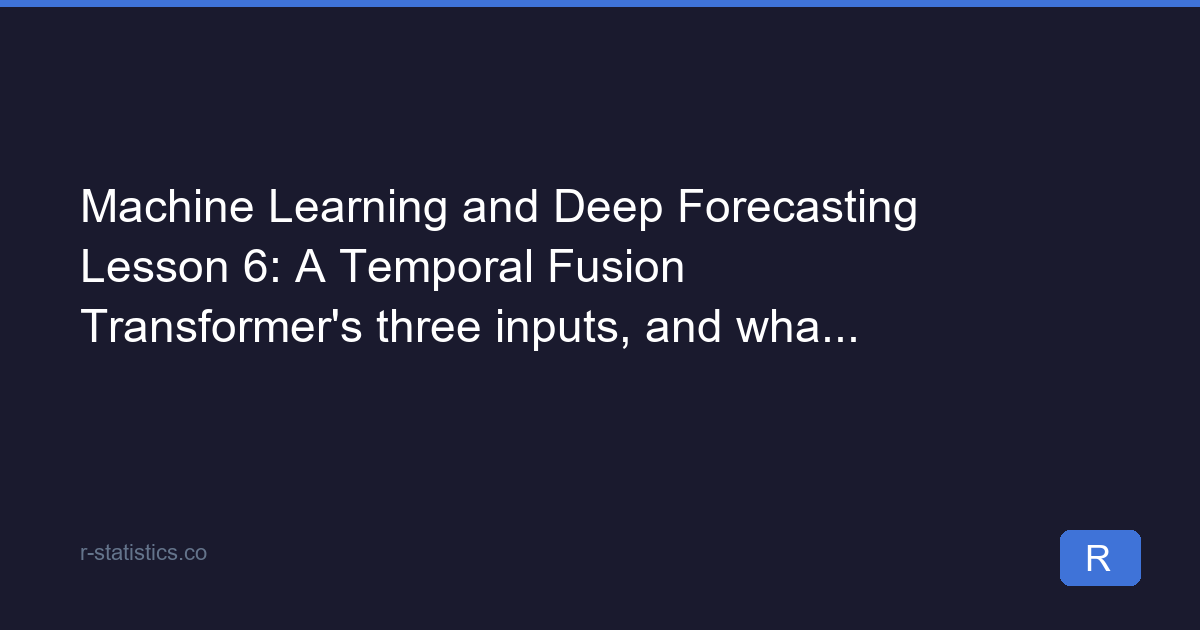
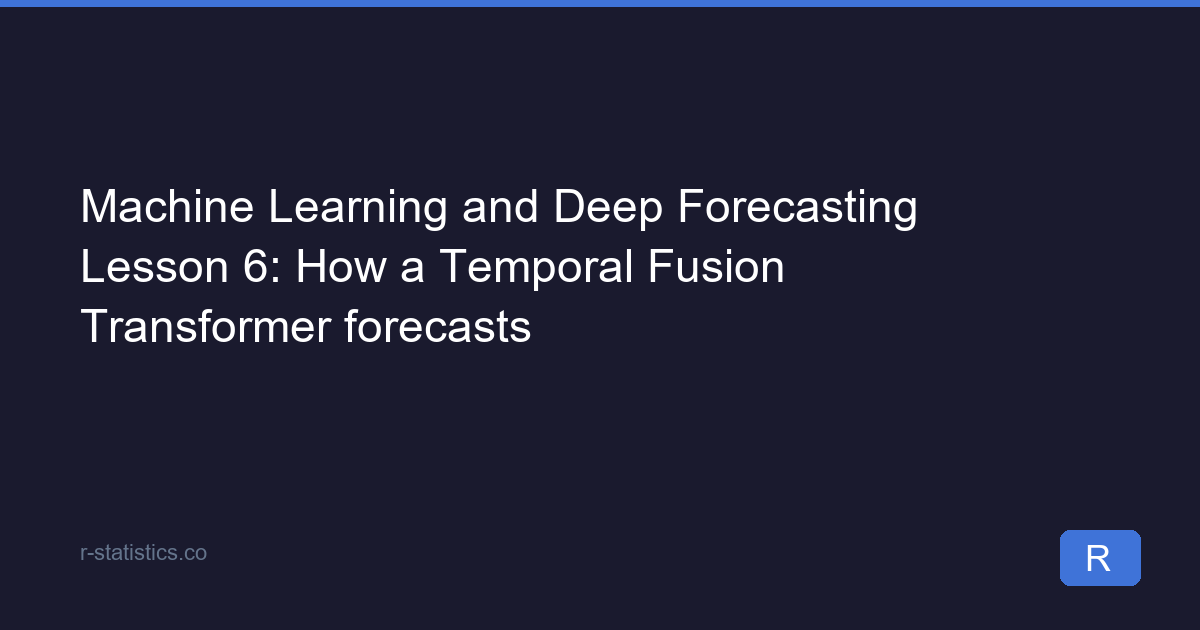
Temporal Fusion Transformers lesson: retitle to 'How a Temporal Fusion Transformer forecasts'

Changed region(s): [[0.2467, 0.3921, 0.6783, 0.4524], [0.2775, 0.4825, 0.7092, 0.5429]]

diff --git a/Temporal-Fusion-Transformers.html b/Temporal-Fusion-Transformers.html
@@ -1,7 +1,7 @@
 <!DOCTYPE html>
 <html lang="en">
   <head>
-    <title>Machine Learning and Deep Forecasting Lesson 6: A Temporal Fusion Transformer's three inputs, and what it pays attention to</title>
+    <title>Machine Learning and Deep Forecasting Lesson 6: How a Temporal Fusion Transformer forecasts</title>
     <meta charset="utf-8">
     <meta name="Description" content="See the three inputs a Temporal Fusion Transformer separates, compute a softmax attention weight by hand on real liquor sales, and judge if it earns its cost.">
     <meta name="Keywords" content="Temporal Fusion Transformer, TFT forecasting, attention mechanism forecasting, static covariate, known future input, observed past input, softmax attention weights, multi-horizon forecasting, R time series">
@@ -662,14 +662,14 @@
       @media(max-width:600px){body.layout-v2 #dark-mode-toggle{display:none}}
     </style>
     <!-- Open Graph -->
-    <meta property="og:title" content="Machine Learning and Deep Forecasting Lesson 6: A Temporal Fusion Transformer's three inputs, and what it pays attention to">
+    <meta property="og:title" content="Machine Learning and Deep Forecasting Lesson 6: How a Temporal Fusion Transformer forecasts">
     <meta property="og:description" content="See the three inputs a Temporal Fusion Transformer separates, compute a softmax attention weight by hand on real liquor sales, and judge if it earns its cost.">
     <meta property="og:type" content="article">
     <meta property="og:url" content="https://r-statistics.co/Temporal-Fusion-Transformers.html">
     <meta property="og:site_name" content="r-statistics.co">
     <meta property="og:image" content="https://r-statistics.co/screenshots/og/Temporal-Fusion-Transformers.png">
     <meta name="twitter:card" content="summary_large_image">
-    <meta name="twitter:title" content="Machine Learning and Deep Forecasting Lesson 6: A Temporal Fusion Transformer's three inputs, and what it pays attention to">
+    <meta name="twitter:title" content="Machine Learning and Deep Forecasting Lesson 6: How a Temporal Fusion Transformer forecasts">
     <meta name="twitter:description" content="See the three inputs a Temporal Fusion Transformer separates, compute a softmax attention weight by hand on real liquor sales, and judge if it earns its cost.">
     <meta name="twitter:image" content="https://r-statistics.co/screenshots/og/Temporal-Fusion-Transformers.png">
     <!-- JSON-LD Structured Data -->
@@ -677,7 +677,7 @@
     {
       "@context": "https://schema.org",
       "@type": ["TechArticle", "LearningResource"],
-      "headline": "Machine Learning and Deep Forecasting Lesson 6: A Temporal Fusion Transformer's three inputs, and what it pays attention to",
+      "headline": "Machine Learning and Deep Forecasting Lesson 6: How a Temporal Fusion Transformer forecasts",
       "description": "See the three inputs a Temporal Fusion Transformer separates, compute a softmax attention weight by hand on real liquor sales, and judge if it earns its cost.",
       "author": {"@type": "Person", "name": "Selva Prabhakaran", "url": "https://r-statistics.co/about/", "jobTitle": "Data Scientist"},
       "publisher": {"@type": "Organization", "name": "r-statistics.co", "url": "https://r-statistics.co/", "logo": {"@type": "ImageObject", "url": "https://r-statistics.co/screenshots/og-default.png"}},
@@ -696,7 +696,7 @@
       "@type": "BreadcrumbList",
       "itemListElement": [
         {"@type": "ListItem", "position": 1, "name": "Home", "item": "https://r-statistics.co/"},
-        {"@type": "ListItem", "position": 2, "name": "Machine Learning and Deep Forecasting Lesson 6: A Temporal Fusion Transformer's three inputs, and what it pays attention to", "item": "https://r-statistics.co/Temporal-Fusion-Transformers.html"}
+        {"@type": "ListItem", "position": 2, "name": "Machine Learning and Deep Forecasting Lesson 6: How a Temporal Fusion Transformer forecasts", "item": "https://r-statistics.co/Temporal-Fusion-Transformers.html"}
       ]
     }
     </script>
@@ -780,11 +780,11 @@
 
           
 
-          <nav class="breadcrumb-nav" aria-label="Breadcrumb"><a href="/">Home</a> <span class="breadcrumb-sep">&rsaquo;</span> <span class="breadcrumb-current">Machine Learning and Deep Forecasting Lesson 6: A Temporal Fusion Transformer's three inputs, and what it pays attention to</span></nav>
+          <nav class="breadcrumb-nav" aria-label="Breadcrumb"><a href="/">Home</a> <span class="breadcrumb-sep">&rsaquo;</span> <span class="breadcrumb-current">Machine Learning and Deep Forecasting Lesson 6: How a Temporal Fusion Transformer forecasts</span></nav>
 <!-- md2lesson:generated -->
 
 <section class="lesson-step" data-step="1" data-step-type="cover">
-<h2>A Temporal Fusion Transformer's three inputs, and what it pays attention to</h2>
+<h2>How a Temporal Fusion Transformer forecasts</h2>
 
 <p>Today let's see what a Temporal Fusion Transformer actually looks at before it makes a forecast, and why it can end up paying more attention to a month from a year ago than to last month.</p>
 

diff --git a/_lessons/Temporal-Fusion-Transformers.html b/_lessons/Temporal-Fusion-Transformers.html
@@ -1,5 +1,5 @@
 ---
-title: "Machine Learning and Deep Forecasting Lesson 6: A Temporal Fusion Transformer's three inputs, and what it pays attention to"
+title: "Machine Learning and Deep Forecasting Lesson 6: How a Temporal Fusion Transformer forecasts"
 description: "See the three inputs a Temporal Fusion Transformer separates, compute a softmax attention weight by hand on real liquor sales, and judge if it earns its cost."
 keywords: "Temporal Fusion Transformer, TFT forecasting, attention mechanism forecasting, static covariate, known future input, observed past input, softmax attention weights, multi-horizon forecasting, R time series"
 mathjax: true
@@ -20,7 +20,7 @@ catalog_blurb: "What a Temporal Fusion Transformer actually attends to, and whet
 <!-- md2lesson:generated -->
 
 <section class="lesson-step" data-step="1" data-step-type="cover">
-<h2>A Temporal Fusion Transformer's three inputs, and what it pays attention to</h2>
+<h2>How a Temporal Fusion Transformer forecasts</h2>
 
 <p>Today let's see what a Temporal Fusion Transformer actually looks at before it makes a forecast, and why it can end up paying more attention to a month from a year ago than to last month.</p>
 

diff --git a/lessons/Temporal-Fusion-Transformers.md b/lessons/Temporal-Fusion-Transformers.md
@@ -1,5 +1,5 @@
 ---
-title: "Machine Learning and Deep Forecasting Lesson 6: A Temporal Fusion Transformer's three inputs, and what it pays attention to"
+title: "Machine Learning and Deep Forecasting Lesson 6: How a Temporal Fusion Transformer forecasts"
 slug: "Temporal-Fusion-Transformers"
 description: "See the three inputs a Temporal Fusion Transformer separates, compute a softmax attention weight by hand on real liquor sales, and judge if it earns its cost."
 keywords: "Temporal Fusion Transformer, TFT forecasting, attention mechanism forecasting, static covariate, known future input, observed past input, softmax attention weights, multi-horizon forecasting, R time series"
@@ -20,7 +20,7 @@ catalog_blurb: "What a Temporal Fusion Transformer actually attends to, and whet
 ---
 
 === step === cover
-## A Temporal Fusion Transformer's three inputs, and what it pays attention to
+## How a Temporal Fusion Transformer forecasts
 
 Today let's see what a Temporal Fusion Transformer actually looks at before it makes a forecast, and why it can end up paying more attention to a month from a year ago than to last month.
 
